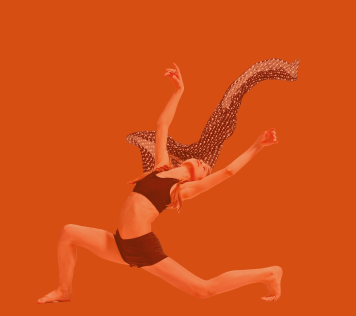
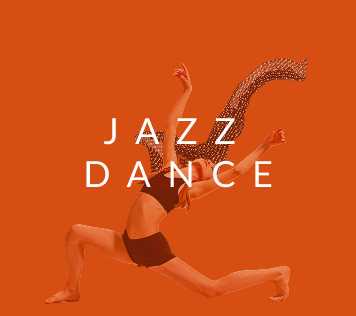
Fix: slider hover images,italic text, some minor changes

Changed region(s): [[0.0927, 0.1709, 0.8652, 0.9684], [0.7107, 0.8259, 0.8343, 0.9684], [0.2163, 0.4842, 0.309, 0.5981]]

diff --git a/src/components/HomePage/Slider/index.tsx b/src/components/HomePage/Slider/index.tsx
@@ -5,18 +5,20 @@ import styles from "./styles.module.scss";
 
 const sliderContent = [
   {
-    src: "/wwwdance/assets/Ballet.png",
+    src: "/wwwdance/assets/BalletDance.png",
     alt: "danceStyle",
     title: "Ballet",
     text: "Classical ballet is the most traditional and structured form of ballet, characterized by its graceful movements, precise techniques and it requires immense dedication, strength, and flexibility.",
     href: "",
+    color: "pink",
   },
   {
-    src: "/wwwdance/assets/HipHop.png",
+    src: "/wwwdance/assets/HipHopDance.png",
     alt: "danceStyle",
     title: "Hip-Hop",
     text: "Hip-hop dance is a vibrant and energetic street dance style that originated in the 1970s in the Bronx, New York City. It has grown into a global phenomenon, influencing everything from music videos to competitive dance battles.",
     href: "",
+    color: "purple",
   },
   {
     src: "/wwwdance/assets/JazzDance.png",
@@ -24,27 +26,31 @@ const sliderContent = [
     title: "Jazz Dance",
     text: "Jazz dance is an energetic and expressive dance style that blends African-American rhythms and movements with elements of ballet, modern dance and gimnastics. It emerged in the early 20th century in the United States and has evolved into various styles.",
     href: "",
+    color: "orange",
   },
   {
-    src: "/wwwdance/assets/JazzDance.png",
+    src: "/wwwdance/assets/BellyDance.png",
     alt: "Belly Dance",
     title: "Belly Dance",
     text: "Belly dance has origins in the ME and NA. It is characterized by hip movements, undulating torso isolations, and arm gestures. It has evolved into various styles and is now practiced worldwide for performance, fitness, and cultural expression.",
     href: "",
+    color: "pink",
   },
   {
-    src: "/wwwdance/assets/JazzDance.png",
+    src: "/wwwdance/assets/BreakDance.png",
     alt: "Break Dance",
     title: "Break Dance",
     text: "Breaking is a dynamic, freestyle dance and includes footwork, power moves, freezes, .... It is often performed in battles, where dancers compete to showcase their skills, creativity, and musicality. It has grown into a global phenomenon, influencing everything from music videos to competitive dance battles.",
     href: "",
+    color: "purple",
   },
   {
-    src: "/wwwdance/assets/JazzDance.png",
+    src: "/wwwdance/assets/ModernDance.png",
     alt: "Modern Dance",
     title: "Modern Dance",
     text: "A highly expressive and freeform dance style that emerged in the early 20th century as a rebellion against the strict rules of classical ballet. It focuses on natural movement, emotions, and individuality, allowing dancers to explore innovative techniques and storytelling methods.",
     href: "",
+    color: "orange",
   },
 ];
 
@@ -109,7 +115,13 @@ const Slider: FC = () => {
             )
           )
           .map((item, index) => (
-            <div key={index} className={styles.category}>
+            <div
+              key={index}
+              className={cx(styles.category, styles[item.color])}
+            >
+              <div className={styles.danceCategoryImage}>
+                <img src={item.src} alt={item.title} />
+              </div>
               <div className={styles.textTitle}>{item.title}</div>
               <div className={styles.textCategory}>{item.text}</div>
             </div>

diff --git a/src/components/HomePage/Slider/styles.module.scss b/src/components/HomePage/Slider/styles.module.scss
@@ -49,6 +49,22 @@
     height: 300px;
   }
 }
+.danceCategoryImage {
+  height: 100%;
+  display: flex;
+  justify-content: center;
+  align-items: center;
+  position: relative; /* or absolute if needed, but consistently */
+  margin: 10px 0;
+  width: fit-content;
+  transition: opacity 0.3s;
+}
+
+.danceCategoryImage:hover {
+  opacity: 0;
+  position: absolute;
+}
+
 .textTitle {
   display: flex;
   justify-content: center;
@@ -94,4 +110,14 @@
 
 .arrowButton.right {
   right: 10px;
+}
+
+.pink {
+  background-color: $pink;
+}
+.orange {
+  background-color: $orange;
+}
+.purple {
+  background-color: $purple;
 }
